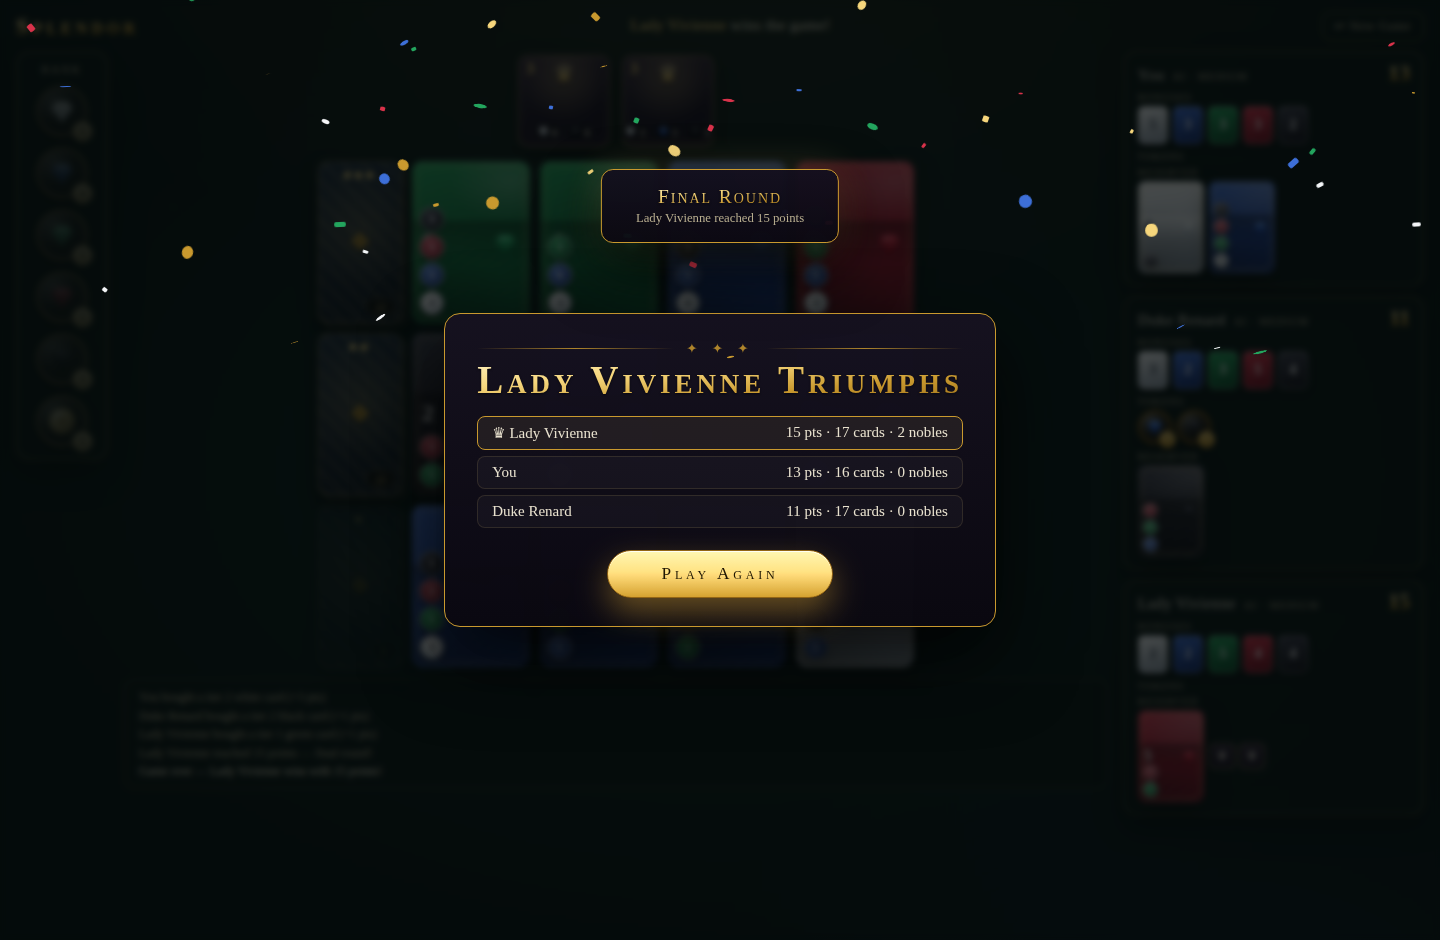
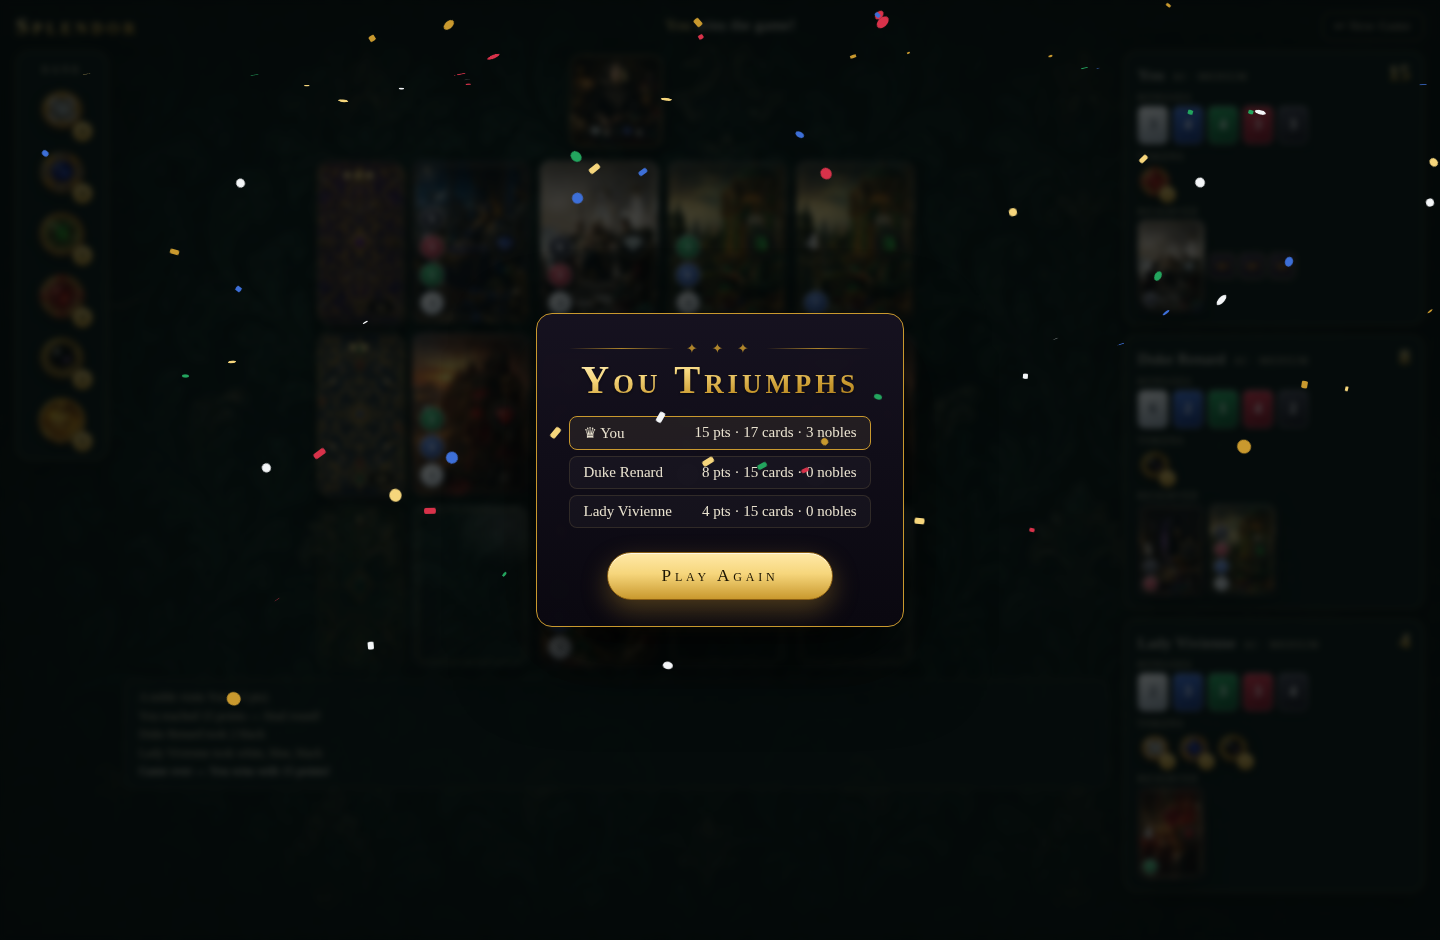
Update victory screenshot; fix verb agreement for 'You' on victory screen
Claude-Session: https://claude.ai/code/session_01XX9otnDERmrShFkPyguEYD

diff --git a/src/ui/GameScreen.tsx b/src/ui/GameScreen.tsx
@@ -545,7 +545,10 @@ function VictoryOverlay({ state, onExit }: { state: GameState; onExit: () => voi
       <div className="modal">
         <div className="rule-ornament">✦ ✦ ✦</div>
         <h2 className="victory-title gold-text">
-          {state.winners!.map((i) => state.players[i].name).join(' & ')} Triumphs
+          {state.winners!.map((i) => state.players[i].name).join(' & ')}{' '}
+          {state.winners!.length === 1 && state.players[state.winners![0]].name !== 'You'
+            ? 'Triumphs'
+            : 'Triumph'}
         </h2>
         <div className="victory-scores">
           {ranked.map(({ p, i, pts }) => (
